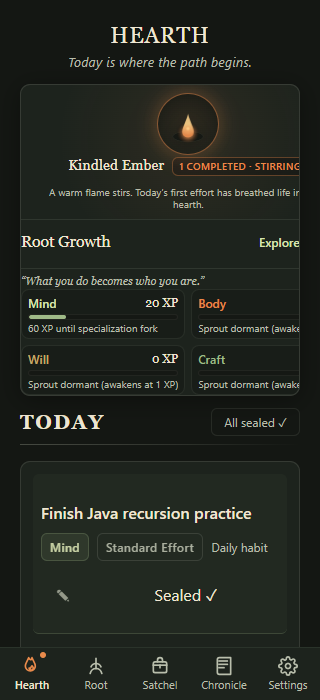
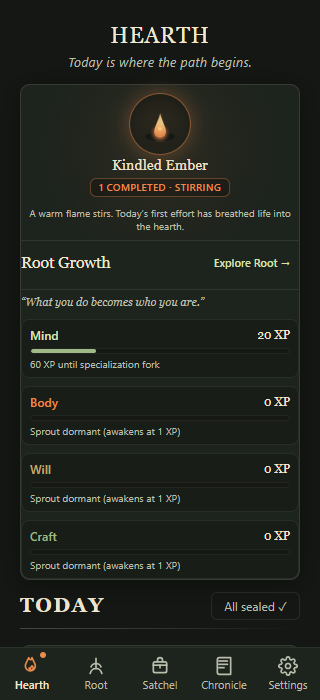
fix(ui): eliminate hearth responsive content clipping

diff --git a/tests/e2e/demo-flow.spec.ts b/tests/e2e/demo-flow.spec.ts
@@ -205,6 +205,67 @@ test.describe('Ember & Root — Full E2E Browser Demo Flow', () => {
       });
       expect(hasHorizontalScrollbar, `Viewport ${vp.name} (${vp.width}x${vp.height}) must not have horizontal overflow`).toBe(false);
 
+      // Element-level containment: each branch card must be fully contained within branches grid
+      const branchesGrid = page.locator('.root-branches-grid');
+      await expect(branchesGrid).toBeVisible();
+      const gridBox = await branchesGrid.boundingBox();
+      expect(gridBox).not.toBeNull();
+
+      const branchCards = page.locator('.root-branch-card');
+      const cardCount = await branchCards.count();
+      expect(cardCount).toBe(4);
+
+      for (let i = 0; i < cardCount; i++) {
+        const card = branchCards.nth(i);
+        const cardBox = await card.boundingBox();
+        expect(cardBox).not.toBeNull();
+        if (cardBox && gridBox) {
+          expect(
+            cardBox.x + cardBox.width,
+            `Branch card #${i} right (${cardBox.x + cardBox.width}) must be <= grid right (${gridBox.x + gridBox.width}) on ${vp.name}`
+          ).toBeLessThanOrEqual(gridBox.x + gridBox.width + 1);
+        }
+      }
+
+      // Element-level containment: status badge must be fully contained in ember-info
+      const emberInfo = page.locator('.ember-info');
+      const emberBadge = page.locator('.ember-stage-badge');
+      await expect(emberBadge).toBeVisible();
+      const infoBox = await emberInfo.boundingBox();
+      const badgeBox = await emberBadge.boundingBox();
+      if (badgeBox && infoBox) {
+        expect(
+          badgeBox.x + badgeBox.width,
+          `Ember stage badge right (${badgeBox.x + badgeBox.width}) must be <= info container right (${infoBox.x + infoBox.width}) on ${vp.name}`
+        ).toBeLessThanOrEqual(infoBox.x + infoBox.width + 1);
+      }
+
+      // Element-level text safety: text elements must not have scrollWidth > clientWidth (no internal clipping)
+      const textClippingIssues = await page.evaluate(() => {
+        const selectors = [
+          '.ember-title',
+          '.ember-stage-badge',
+          '.root-preview-title',
+          '.root-preview-link-btn',
+          '.branch-name-label',
+          '.branch-xp-value',
+          '.branch-milestone-text',
+        ];
+        const issues: string[] = [];
+        for (const selector of selectors) {
+          const elements = document.querySelectorAll(selector);
+          elements.forEach((el, idx) => {
+            if (el.scrollWidth > el.clientWidth + 1) {
+              issues.push(
+                `${selector}[${idx}] clipped: scrollWidth=${el.scrollWidth} > clientWidth=${el.clientWidth} (text="${el.textContent?.trim()}")`
+              );
+            }
+          });
+        }
+        return issues;
+      });
+      expect(textClippingIssues, `Text elements must not be clipped on ${vp.name} (${vp.width}x${vp.height})`).toEqual([]);
+
       // Verify mobile bottom nav on small viewports
       if (vp.width < 768) {
         const mobileNav = page.locator('nav[aria-label="Mobile Navigation"]');
@@ -233,6 +294,10 @@ test.describe('Ember & Root — Full E2E Browser Demo Flow', () => {
       // Capture Hearth screenshot (viewport capture on mobile to represent true screen frame)
       await page.screenshot({
         path: `screenshots/hearth-${vp.name}-${vp.width}x${vp.height}.png`,
+        fullPage: vp.width >= 768,
+      });
+      await page.screenshot({
+        path: `docs/screenshots/demo-readiness/hearth-${vp.width}x${vp.height}.png`,
         fullPage: vp.width >= 768,
       });
 
@@ -273,6 +338,10 @@ test.describe('Ember & Root — Full E2E Browser Demo Flow', () => {
       // Capture Root screenshot
       await page.screenshot({
         path: `screenshots/root-${vp.name}-${vp.width}x${vp.height}.png`,
+        fullPage: vp.width >= 768,
+      });
+      await page.screenshot({
+        path: `docs/screenshots/demo-readiness/root-${vp.width}x${vp.height}.png`,
         fullPage: vp.width >= 768,
       });
 

diff --git a/features/hearth/HearthRootPreview.css b/features/hearth/HearthRootPreview.css
@@ -31,6 +31,9 @@
   margin-bottom: var(--space-8);
   border-bottom: 1px solid rgba(185, 190, 172, 0.12);
   padding-bottom: var(--space-8);
+  flex-wrap: wrap;
+  gap: var(--space-8);
+  min-width: 0;
 }
 
 .root-preview-title {
@@ -38,6 +41,7 @@
   font-size: var(--text-xl);
   color: var(--color-text-primary);
   margin: 0;
+  min-width: 0;
 }
 
 .root-preview-subtitle {
@@ -64,6 +68,8 @@
   align-items: center;
   min-height: var(--min-touch-target);
   transition: color 150ms ease, background-color 150ms ease;
+  white-space: nowrap;
+  flex-shrink: 0;
 }
 
 .root-preview-link:hover,
@@ -89,8 +95,9 @@
 /* Branches Grid */
 .root-branches-grid {
   display: grid;
-  grid-template-columns: repeat(2, 1fr);
+  grid-template-columns: repeat(2, minmax(0, 1fr));
   gap: var(--space-12);
+  min-width: 0;
 }
 
 .root-branch-card {
@@ -102,6 +109,8 @@
   border: 1px solid rgba(185, 190, 172, 0.1);
   border-radius: var(--radius-card);
   transition: border-color 200ms ease, background-color 200ms ease;
+  min-width: 0;
+  box-sizing: border-box;
 }
 
 .root-branch-card.is-highlighted {
@@ -123,6 +132,8 @@
   display: flex;
   align-items: center;
   justify-content: space-between;
+  gap: var(--space-8);
+  min-width: 0;
 }
 
 .branch-name-label {
@@ -130,6 +141,7 @@
   font-size: var(--text-sm);
   font-weight: 600;
   text-transform: capitalize;
+  min-width: 0;
 }
 
 .branch-name-label.branch-mind {
@@ -153,6 +165,8 @@
   font-size: var(--text-sm);
   color: var(--color-text-primary);
   font-weight: 500;
+  white-space: nowrap;
+  flex-shrink: 0;
 }
 
 /* Progress Track */
@@ -190,7 +204,11 @@
 .branch-milestone-text {
   font-size: var(--text-xs);
   color: var(--color-text-secondary);
-  line-height: 1.3;
+  line-height: 1.35;
+  white-space: normal;
+  overflow-wrap: break-word;
+  word-break: normal;
+  min-width: 0;
 }
 
 .branch-milestone-text.is-ready {
@@ -199,7 +217,7 @@
 }
 
 /* Mobile responsive density */
-@media (max-width: 640px) {
+@media (max-width: 600px) {
   .hearth-stage-duo .root-preview-container {
     padding: var(--space-12) var(--space-8);
   }
@@ -214,18 +232,18 @@
   }
 
   .root-motto {
-    margin: 0 0 var(--space-6) 0;
+    margin: 0 0 var(--space-8) 0;
     font-size: 11px;
   }
 
   .root-branches-grid {
-    grid-template-columns: repeat(2, 1fr);
-    gap: 6px;
+    grid-template-columns: minmax(0, 1fr);
+    gap: var(--space-8);
   }
 
   .root-branch-card {
-    padding: 6px 8px;
-    gap: 2px;
+    padding: var(--space-8) var(--space-12);
+    gap: var(--space-4);
   }
 
   .branch-name-label {
@@ -237,11 +255,10 @@
   }
 
   .branch-milestone-text {
-    font-size: 10px;
-    line-height: 1.2;
-    white-space: nowrap;
-    overflow: hidden;
-    text-overflow: ellipsis;
+    font-size: 11px;
+    line-height: 1.3;
+    white-space: normal;
+    overflow-wrap: break-word;
   }
 }
 
@@ -254,8 +271,18 @@
     font-size: var(--text-base);
   }
 
+  .root-preview-link-btn,
+  .root-preview-link {
+    font-size: 11px;
+    padding: var(--space-4) var(--space-8);
+  }
+
   .root-branch-card {
-    padding: 4px 6px;
+    padding: 6px var(--space-8);
+  }
+
+  .branch-milestone-text {
+    font-size: 10px;
   }
 }
 

diff --git a/features/hearth/EmberDisplay.css b/features/hearth/EmberDisplay.css
@@ -15,9 +15,10 @@
   border: none;
   border-radius: 0;
   position: relative;
-  overflow: hidden;
   box-sizing: border-box;
   text-align: center;
+  min-width: 0;
+  width: 100%;
 }
 
 /* Background parchment warmth overlay */
@@ -294,7 +295,10 @@
   flex-direction: column;
   align-items: center;
   gap: var(--space-8);
-  max-width: 380px;
+  max-width: 440px;
+  width: 100%;
+  min-width: 0;
+  box-sizing: border-box;
 }
 
 .ember-header-row {
@@ -303,6 +307,8 @@
   gap: var(--space-8);
   flex-wrap: wrap;
   justify-content: center;
+  max-width: 100%;
+  min-width: 0;
 }
 
 .ember-title {
@@ -310,6 +316,8 @@
   font-size: var(--text-xl);
   color: var(--color-text-primary);
   letter-spacing: 0.01em;
+  margin: 0;
+  min-width: 0;
 }
 
 .ember-stage-badge {
@@ -323,6 +331,12 @@
   font-weight: 500;
   text-transform: uppercase;
   letter-spacing: 0.03em;
+  max-width: 100%;
+  box-sizing: border-box;
+  white-space: normal;
+  overflow-wrap: break-word;
+  word-break: normal;
+  text-align: center;
 }
 
 .ember-resting .ember-stage-badge {
@@ -351,6 +365,8 @@
   color: var(--color-text-secondary);
   line-height: 1.5;
   margin: 0;
+  max-width: 100%;
+  overflow-wrap: break-word;
 }
 
 /* --------------------------------------------------------------------------
@@ -378,9 +394,6 @@
 /* --------------------------------------------------------------------------
    Mobile Density & Compression (320px, 390px, 640px)
    -------------------------------------------------------------------------- */
-/* --------------------------------------------------------------------------
-   Mobile Density & Compression (320px, 390px, 640px)
-   -------------------------------------------------------------------------- */
 @media (max-width: 640px) {
   .ember-container {
     padding: var(--space-12) var(--space-8);
@@ -403,14 +416,22 @@
 
   .ember-stage-badge {
     font-size: 10px;
-    padding: 1px 6px;
+    padding: 2px 8px;
+    line-height: 1.3;
   }
 
   .ember-description {
     font-size: 11px;
     line-height: 1.3;
     margin-top: 2px;
-    max-width: 280px;
+    max-width: 320px;
+  }
+}
+
+@media (max-width: 480px) {
+  .ember-header-row {
+    flex-direction: column;
+    gap: var(--space-4);
   }
 }
 

diff --git a/features/hearth/HearthView.css b/features/hearth/HearthView.css
@@ -209,18 +209,27 @@
    -------------------------------------------------------------------------- */
 .hearth-stage-duo {
   display: grid;
-  grid-template-columns: 1fr 1fr;
+  grid-template-columns: 1fr;
   align-items: stretch;
   background-color: var(--color-surface);
   border: 1px solid rgba(185, 190, 172, 0.16);
   border-radius: var(--radius-panel);
   box-shadow: 0 4px 24px rgba(0, 0, 0, 0.35);
-  overflow: hidden;
   position: relative;
+  min-width: 0;
 }
 
-@media (min-width: 861px) {
+.hearth-stage-duo > *:first-child {
+  border-bottom: 1px solid rgba(185, 190, 172, 0.12);
+}
+
+@media (min-width: 960px) {
+  .hearth-stage-duo {
+    grid-template-columns: minmax(0, 1fr) minmax(0, 1fr);
+  }
+
   .hearth-stage-duo > *:first-child {
+    border-bottom: none;
     border-right: 1px solid rgba(185, 190, 172, 0.12);
   }
 }
@@ -261,14 +270,6 @@
 }
 
 @media (max-width: 860px) {
-  .hearth-stage-duo {
-    grid-template-columns: 1fr;
-  }
-
-  .hearth-stage-duo > *:first-child {
-    border-bottom: 1px solid rgba(185, 190, 172, 0.12);
-  }
-
   .hearth-header-inner {
     flex-direction: column;
     align-items: flex-start;
